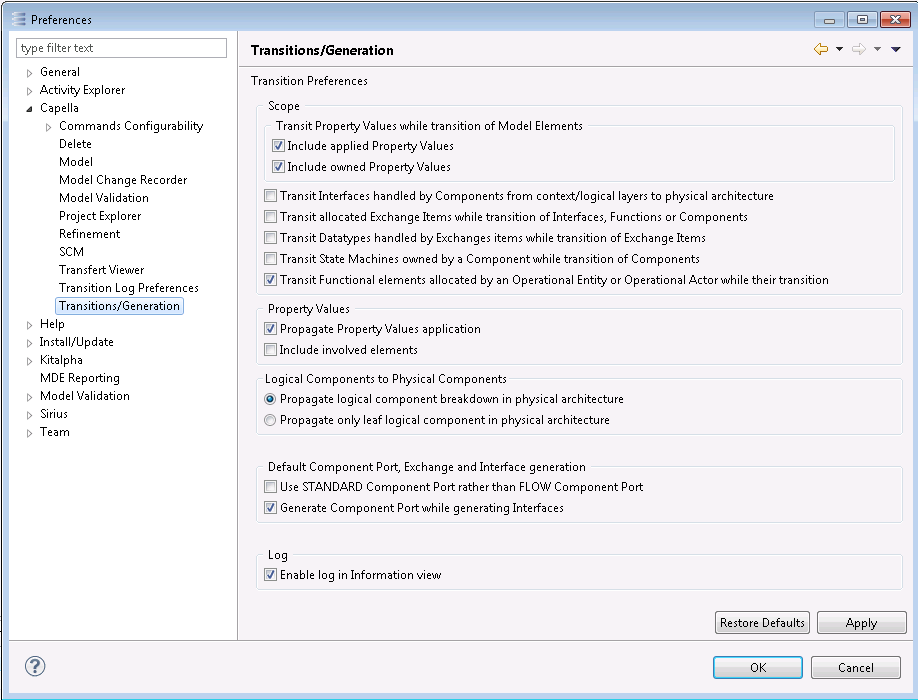
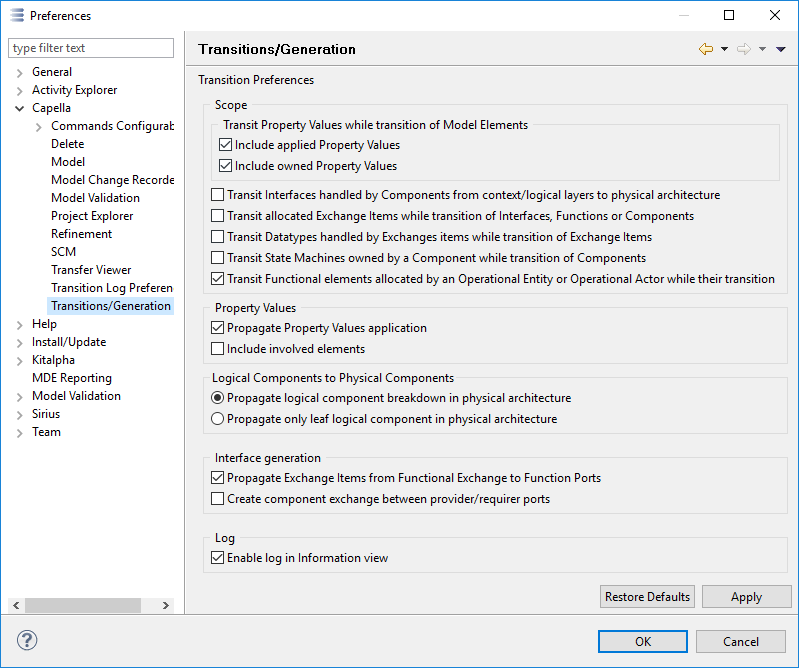
[1440] Update documentation for generate interfaces accelerator
Bug: 1440

Changed region(s): [[0.0, 0.0, 1.0, 1.0]]

diff --git a/doc/plugins/org.polarsys.capella.preferences.doc/html/06. Preferences/6.2. Model preferences.html b/doc/plugins/org.polarsys.capella.preferences.doc/html/06. Preferences/6.2. Model preferences.html
@@ -1,100 +1,193 @@
 <!--
- Copyright (c) 2006, 2015 THALES GLOBAL SERVICES.
+ Copyright (c) 2006, 2017 THALES GLOBAL SERVICES.
  All rights reserved. This program and the accompanying materials
  are made available under the terms of the Eclipse Public License v1.0
  which accompanies this distribution, and is available at
  http://www.eclipse.org/legal/epl-v10.html
  
  Contributors:
- 	Thales - initial API and implementation
+   Thales - initial API and implementation
 -->
-<!--?xml version='1.0' encoding='utf-8' ?--><!DOCTYPE html PUBLIC "-//W3C//DTD XHTML 1.0 Transitional//EN" "http://www.w3.org/TR/xhtml1/DTD/xhtml1-transitional.dtd">
+<!DOCTYPE html PUBLIC "-//W3C//DTD XHTML 1.0 Transitional//EN" "http://www.w3.org/TR/xhtml1/DTD/xhtml1-transitional.dtd">
 <html xmlns="http://www.w3.org/1999/xhtml">
- <head> 
-  <meta http-equiv="Content-Type" content="text/html; charset=utf-8" /> 
-  <link rel="stylesheet" type="text/css" href="PLUGINS_ROOT/org.polarsys.capella.doc/html/styles.css" media="all" />
- </head> 
- <body> 
-  <h1 id="Model_Preferences">Model Preferences</h1> 
-  <p>Preferences are available from the Window / Preferences menu. A section is dedicated to Capella.</p> 
-  <p> <img height="361" width="334" border="0" src="Images/6.2.%20Model%20preferences_html_1f594e63.png" /> </p> 
-  <p> <img height="522" width="627" border="0" src="Images/6.2.%20Model%20preferences_html_mcdd659.png" /> </p> 
-  <p> <br /> <br /> </p> 
-  <h2 id="General">General</h2> 
-  <p> <img height="192" width="627" border="0" src="Images/6.2.%20Model%20preferences_html_3594092.png" /> </p> 
-  <p>The “Check model version at load time” provides a security when opening a model. It checks whether the model has been produced with the current version and thus <b>whether it needs to be migrated or not</b>. <b>The drawback of activating this check is that the opening of models takes twice as long</b>. </p> 
-  <p>The AIRD Fragment File Extension option allows specifying the expected file suffix for AIRD fragments.</p> 
-  <table border="1"> 
-   <tbody>
-    <tr> 
-     <td> <p> <img height="48" width="48" border="0" src="Images/6.2.%20Model%20preferences_html_3c78e109.png" /> </p> </td> 
-     <td> <p>It is strongly recommended to use “airdfragment”.</p> </td> 
-    </tr> 
-   </tbody>
-  </table> 
-  <h2 id="Delete">Delete</h2> 
-  <p>On the sub section of Capella / Delete preferences, it is possible to specify deletion options:</p> 
-  <ul> 
-   <li>If “ <b>Confirm deletions</b>” is activated, then a confirmation dialog will be prompted for each deletion attempt. This dialog show a live impact analysis of the deletion. </li> 
-   <li>If “ <b>If reusing components is allowed, synchronize …</b>” is activated, then when deleting a Component, all the Parts that are typed by this component will be deleted as well. </li> 
-  </ul> 
-  <p> <b>Protected Elements</b>: It is possible to prohibit the deletion of certain critical elements. In that case, the deletion command will not be active for these elements. </p> 
-  <p> <img height="513" width="699" border="0" src="Images/6.2.%20Model%20preferences_html_497e9b20.png" /> </p> 
-  <p>The following figure illustrates the prompted dialog when deleting the System Actor “Mission Control Operator”. All the elements in red will be deleted if the deletion is confirmed. The blue elements are the references towards the elements that are going to be deleted.</p> 
-  <p> <img height="595" width="877" border="0" src="Images/6.2.%20Model%20preferences_html_597b3feb.png" /> </p> 
-  <h2 id="Model">Model</h2> 
-  <p>On the sub section Model of Capella preferences, it is possible to specify global behavior regarding the management of specific elements.</p> 
-  <p> <img height="474" width="859" border="0" src="Images/6.2.%20Model%20preferences_html_m2492a832.png" /> </p> 
-  <p>When “ <b>Multiple inheritance allowed</b>” is activated, a Class can inherit from several other Classes. Otherwise, it can only have one inheritance ancestor. </p> 
-  <p>When “ <b>Multiple deployment allowed</b>” is activated, one given Behaviour Physical Component can be deployed on several Node Physical Components. </p> 
-  <p>When “ <b>Delete related associations when a class becomes primitive</b>” is activated, existing associations towards the class which primitive status has changed is deleted automatically. If this option is not activated, then model validation is such cases will raise an error and the end user will be able to manually delete the obsolete association. </p> 
-  <p> <b>The three synchronization options define whether Port allocations and delegations are automatically set</b> when performing allocations from editors. Activating this option helps improving the productivity. </p> 
-  <p> <br /> <br /> </p> 
-  <h2 id="Overview">Overview</h2> 
-  <p> <img height="126" width="466" border="0" src="Images/6.2.%20Model%20preferences_html_m4d003fe.png" /> </p> 
-  <p>Both options allow choosing whether activities related to Functional Analysis and Interface Engineering should be displayed or not (See MDE in Thales / Modeling Approaches / Modeling Strategies).</p> 
-  <p>The sub sections of the Overview Preferences allow specifying individually which sections have to be displayed for each engineering phase.</p> 
-  <p> <img height="450" width="748" border="0" src="Images/6.2.%20Model%20preferences_html_2ceba136.png" /> </p> 
-  <h2 id="Project_Explorer">Project Explorer</h2> 
-  <p> <img height="152" width="365" border="0" src="Images/6.2.%20Model%20preferences_html_m2b0efbf5.png" /> </p> 
-  <p>When the “ <b>Project</b>” option is activated, the semantic element “Project” is displayed (see illustration below). By default, this option is not active. Displaying the “Project” model element is useful </p> 
-  <ul> 
-   <li>If there is a need to manage several system models in the same melodymodeller resource (not really common),</li> 
-   <li>In order to modify configuration property values located on the Project element (reusable components or not, default values for progress monitoring, etc.)</li> 
-  </ul> 
-  <p>By default, this option should be deactivated.</p> 
-  <p> <img height="270" width="360" border="0" src="Images/6.2.%20Model%20preferences_html_mc875712.png" /> </p> 
-  <h2 id="Refinement">Refinement</h2> 
-  <p>This section is dedicated to delegation-based refinement of interface sequence diagrams. <b>It is not relevant when exploiting Functional Analysis.</b> </p> 
-  <p> <img height="215" width="640" border="0" src="Images/6.2.%20Model%20preferences_html_3df4739.png" /> </p> 
-  <p>The checkbox “ <b>Allow diagram creation</b>” specifies whether a diagram shall be automatically created for the target scenario of the refinement. </p> 
-  <p>The checkbox “ <b>Allow diagram opening</b>” specifies whether the diagram corresponding to the target scenario of the refinement shall be automatically opened or not. </p> 
-  <p>The checkbox “ <b>Perform a pre-validation</b>” specifies whether the refinement tool shall perform a set of elementary check verifying the source scenario are ready for refinement. It is strongly recommended to activate this option as well as the following one “ <b>Stop Refinement on pre-validation error</b>”. </p> 
-  <h2 id="SCM">SCM</h2> 
-  <p> <img height="136" width="360" border="0" src="Images/6.2.%20Model%20preferences_html_3d6d7194.png" /> </p> 
-  <p>This section is related to the behaviour of Capella regarding the Software Configuration Management tool (e.g. Clearcase). The configuration option allows setting an automatic synchronization delay with the File System.</p> 
-  <table border="1"> 
-   <tbody>
-    <tr> 
-     <td> <p> <img height="48" width="48" border="0" src="Images/6.2.%20Model%20preferences_html_3c78e109.png" /> </p> </td> 
-     <td> <p>Activating this configuration option is mandatory when working with Clearcase Dynamic Views, in order to be notified immediately of changes performed by other users.</p> </td> 
-    </tr> 
-   </tbody>
-  </table> 
-  <h2 id="Transitions.2FGeneration">Transitions/Generation</h2> 
-  <p>It is possible to specify the behaviour of the automated transitions.</p> 
-  <p> <img height="478" width="753" border="0" src="Images/6.2.%20Model%20preferences_html_m73c38954.png" /> </p> 
-  <ul> 
-   <li>The checkbox “ <b>Use STANDARD Component Port rather than FLOW Component Port</b>” specifies whether generation of component exchanges and interfaces generate STANDARD Component Port rather than FLOW Component Port. </li> 
-   <li>The checkbox “ <b>Generate Component Port while generating Interfaces</b>” specifies whether generation of interfaces from allocated functions generates providing/requiring Component Port rather than implementation/usage links. </li> 
-   <li>The radio buttons “ <b>Propagate logical component breakdown in physical architecture</b>” and “ <b>Propagate only leaf logical components in physical architecture</b>” specifies whether the breakdown of Logical Components is kept at physical level or not. </li> 
-   <li>The checkbox “ <b>Transit interfaces handled by Components from context/logical layers to physical architecture</b>” specifies whether interfaces are duplicated from Logical architecture to Physical architecture when performing a Logical Component to Physical Component transition. If not activated, Physical Components will directly implement / use / provide / require interface located in the system analysis and logical architecture. </li> 
-   <li>The checkbox “ <b>Transit allocated Exchange Items while transition of Interfaces, Functions or Components</b>” specifies whether Interfaces, Functions or Components transition triggers transition of related Exchange Items (i.e. duplicates Exchange Items from one engineering phase to the following one). If not activated, Interface, Functions and Component Exchanges in the target engineering phase will still refer the Exchange Items located in the previous engineering phase. </li> 
-   <li>The checkbox “ <b>Transit Data Types handled by Exchange Items while transition of Exchange Items</b>” specifies whether Exchange Items transition triggers transition of related Data (i.e. duplicates Data from one engineering phase to the following one). If not activated, Exchange Items in the target engineering phase will still refer the Data elements located in the previous engineering phase. </li> 
-   <li>The checkbox “ <b>Transit State Machines owned by a Component while transition of Components</b>” specifies whether State Machines transition is triggered when performing a Component transition. </li> 
-   <li>The checkbox “ <b>Transit Functional elements allocated by an Operational Entity or Operational Actor while their transition</b>” specifies whether Operational Activities are transformed into System Functions when performing a transition of Operational Entities or Actors. </li> 
-   <li>The checkbox <b>“Include involved elements”</b> on the Property Values section specifies whether involved elements will be propagated while a transition of Property Values </li> 
-  </ul> 
-  <p> <br /> <br /> </p>   
- </body>
+  <head>
+    <meta http-equiv="Content-Type" content="text/html; charset=utf-8"/>
+    <link rel="stylesheet" type="text/css" href="PLUGINS_ROOT/org.polarsys.capella.doc/html/styles.css" media="all" />
+  </head>
+  <body>
+    <h1 id="Model_Preferences">Model Preferences</h1>
+    <p>Preferences are available from the Window / Preferences menu. A section is dedicated to Capella.</p>
+    <p>
+      <img height="361" width="334" border="0" src="Images/6.2.%20Model%20preferences_html_1f594e63.png"/>
+    </p>
+    <p>
+      <img height="522" width="627" border="0" src="Images/6.2.%20Model%20preferences_html_mcdd659.png"/>
+    </p>
+    <p>
+      <br/>
+
+      <br/>
+    </p>
+    <h2 id="General">General</h2>
+    <p>
+      <img height="192" width="627" border="0" src="Images/6.2.%20Model%20preferences_html_3594092.png"/>
+    </p>
+    <p>The &ldquo;Check model version at load time&rdquo; provides a security when opening a model. It checks whether the model has been produced with the current version and thus 
+      <b>whether it needs to be migrated or not</b>. 
+      <b>The drawback of activating this check is that the opening of models takes twice as long</b>.
+    </p>
+    <p>The AIRD Fragment File Extension option allows specifying the expected file suffix for AIRD fragments.</p>
+    <table border="1">
+      <tr>
+        <td>
+          <p>
+            <img height="48" width="48" border="0" src="Images/6.2.%20Model%20preferences_html_3c78e109.png"/>
+          </p>
+        </td>
+        <td>
+          <p>It is strongly         recommended to use &ldquo;airdfragment&rdquo;.</p>
+        </td>
+      </tr>
+    </table>
+    <h2 id="Delete">Delete</h2>
+    <p>On the sub section of Capella / Delete preferences, it is possible to specify deletion options:</p>
+    <ul>
+      <li>If &ldquo;
+        <b>Confirm deletions</b>&rdquo; is activated, then a   confirmation dialog will be prompted for each deletion attempt. This   dialog show a live impact analysis of the deletion.
+      </li>
+      <li>If &ldquo;
+        <b>If reusing components is allowed, synchronize &hellip;</b>&rdquo;   is activated, then when deleting a Component, all the Parts that are   typed by this component will be deleted as well.
+      </li>
+    </ul>
+    <p>
+      <b>Protected Elements</b>: It is possible to prohibit the deletion of certain critical elements. In that case, the deletion command will not be active for these elements.
+    </p>
+    <p>
+      <img height="513" width="699" border="0" src="Images/6.2.%20Model%20preferences_html_497e9b20.png"/>
+    </p>
+    <p>The following figure illustrates the prompted dialog when deleting the System Actor &ldquo;Mission Control Operator&rdquo;. All the elements in red will be deleted if the deletion is confirmed. The blue elements are the references towards the elements that are going to be deleted.</p>
+    <p>
+      <img height="595" width="877" border="0" src="Images/6.2.%20Model%20preferences_html_597b3feb.png"/>
+    </p>
+    <h2 id="Model">Model</h2>
+    <p>On the sub section Model of Capella preferences, it is possible to specify global behavior regarding the management of specific elements.</p>
+    <p>
+      <img height="474" width="859" border="0" src="Images/6.2.%20Model%20preferences_html_m2492a832.png"/>
+    </p>
+    <p>When &ldquo;
+      <b>Multiple inheritance allowed</b>&rdquo; is activated, a Class can inherit from several other Classes. Otherwise, it can only have one inheritance ancestor.
+    </p>
+    <p>When &ldquo;
+      <b>Multiple deployment allowed</b>&rdquo; is activated, one given Behaviour Physical Component can be deployed on several Node Physical Components.
+    </p>
+    <p>When &ldquo;
+      <b>Delete related associations when a class becomes primitive</b>&rdquo; is activated, existing associations towards the class which primitive status has changed is deleted automatically. If this option is not activated, then model validation is such cases will raise an error and the end user will be able to manually delete the obsolete association.
+    </p>
+    <p>
+      <b>The three synchronization options define whether Port allocations and delegations are automatically set</b> when performing allocations from editors. Activating this option helps improving the productivity.
+    </p>
+    <p>
+      <br/>
+
+      <br/>
+    </p>
+    <h2 id="Overview">Overview</h2>
+    <p>
+      <img height="126" width="466" border="0" src="Images/6.2.%20Model%20preferences_html_m4d003fe.png"/>
+    </p>
+    <p>Both options allow choosing whether activities related to Functional Analysis and Interface Engineering should be displayed or not (See MDE in Thales / Modeling Approaches / Modeling Strategies).</p>
+    <p>The sub sections of the Overview Preferences allow specifying individually which sections have to be displayed for each engineering phase.</p>
+    <p>
+      <img height="450" width="748" border="0" src="Images/6.2.%20Model%20preferences_html_2ceba136.png"/>
+    </p>
+    <h2 id="Project_Explorer">Project Explorer</h2>
+    <p>
+      <img height="152" width="365" border="0" src="Images/6.2.%20Model%20preferences_html_m2b0efbf5.png"/>
+    </p>
+    <p>When the &ldquo;
+      <b>Project</b>&rdquo; option is activated, the semantic element &ldquo;Project&rdquo; is displayed (see illustration below). By default, this option is not active. Displaying the &ldquo;Project&rdquo; model element is useful
+    </p>
+    <ul>
+      <li>If there is a need to manage several system models in the same   melodymodeller resource (not really common),</li>
+      <li>In order to modify configuration property values located on the   Project element (reusable components or not, default values for   progress monitoring, etc.)</li>
+    </ul>
+    <p>By default, this option should be deactivated.</p>
+    <p>
+      <img height="270" width="360" border="0" src="Images/6.2.%20Model%20preferences_html_mc875712.png"/>
+    </p>
+    <h2 id="Refinement">Refinement</h2>
+    <p>This section is dedicated to delegation-based refinement of interface sequence diagrams. 
+      <b>It is not relevant when exploiting Functional Analysis.</b>
+    </p>
+    <p>
+      <img height="215" width="640" border="0" src="Images/6.2.%20Model%20preferences_html_3df4739.png"/>
+    </p>
+    <p>The checkbox &ldquo;
+      <b>Allow diagram creation</b>&rdquo; specifies whether a diagram shall be automatically created for the target scenario of the refinement.
+    </p>
+    <p>The checkbox &ldquo;
+      <b>Allow diagram opening</b>&rdquo; specifies whether the diagram corresponding to the target scenario of the refinement shall be automatically opened or not.
+    </p>
+    <p>The checkbox &ldquo;
+      <b>Perform a pre-validation</b>&rdquo; specifies whether the refinement tool shall perform a set of elementary check verifying the source scenario are ready for refinement. It is strongly recommended to activate this option as well as the following one &ldquo;
+      <b>Stop Refinement on pre-validation error</b>&rdquo;.
+    </p>
+    <h2 id="SCM">SCM</h2>
+    <p>
+      <img height="136" width="360" border="0" src="Images/6.2.%20Model%20preferences_html_3d6d7194.png"/>
+    </p>
+    <p>This section is related to the behaviour of Capella regarding the Software Configuration Management tool (e.g. Clearcase). The configuration option allows setting an automatic synchronization delay with the File System.</p>
+    <table border="1">
+      <tr>
+        <td>
+          <p>
+            <img height="48" width="48" border="0" src="Images/6.2.%20Model%20preferences_html_3c78e109.png"/>
+          </p>
+        </td>
+        <td>
+          <p>Activating this         configuration option is mandatory when working with Clearcase         Dynamic Views, in order to be notified immediately of changes         performed by other users.</p>
+        </td>
+      </tr>
+    </table>
+    <h2 id="Transitions.2FGeneration">Transitions/Generation</h2>
+    <p>It is possible to specify the behaviour of the automated transitions.</p>
+    <p>
+      <img height="668" width="799" border="0" src="Images/6.2.%20Model%20preferences_html_m73c38954.png"/>
+    </p>
+    <ul>
+      <li>The radio buttons &ldquo;
+        <b>Propagate logical component breakdown in   physical architecture</b>&rdquo; and &ldquo;
+        <b>Propagate only leaf   logical components in physical architecture</b>&rdquo; specifies   whether the breakdown of Logical Components is kept at physical   level or not.
+      </li>
+      <li>The checkbox &ldquo;
+        <b>Transit interfaces handled by Components from   context/logical layers to physical architecture</b>&rdquo; specifies   whether interfaces are duplicated from Logical architecture to   Physical architecture when performing a Logical Component to   Physical Component transition. If not activated, Physical Components   will directly implement / use / provide / require interface located   in the system analysis and logical architecture.
+      </li>
+      <li>The checkbox &ldquo;
+        <b>Transit allocated Exchange Items while   transition of Interfaces, Functions or Components</b>&rdquo;   specifies whether Interfaces, Functions or Components transition   triggers transition of related Exchange Items (i.e. duplicates   Exchange Items from one engineering phase to the following one). If   not activated, Interface, Functions and Component Exchanges in the   target engineering phase will still refer the Exchange Items located   in the previous engineering phase.
+      </li>
+      <li>The checkbox &ldquo;
+        <b>Transit Data Types handled by Exchange Items   while transition of Exchange Items</b>&rdquo; specifies whether   Exchange Items transition triggers transition of related Data (i.e.   duplicates Data from one engineering phase to the following one). If   not activated, Exchange Items in the target engineering phase will   still refer the Data elements located in the previous engineering   phase.
+      </li>
+      <li>The checkbox &ldquo;
+        <b>Transit State Machines owned by a Component   while transition of Components</b>&rdquo; specifies whether State   Machines transition is triggered when performing a Component   transition.
+      </li>
+      <li>The checkbox &ldquo;
+        <b>Transit Functional elements allocated by an   Operational Entity or Operational Actor while their transition</b>&rdquo;   specifies whether Operational Activities are transformed into System   Functions when performing a transition of Operational Entities or   Actors.
+      </li>
+      <li>The checkbox 
+        <b>&ldquo;Include involved elements&rdquo;</b> on the   Property Values section specifies whether involved elements will be   propagated while a transition of Property Values
+      </li>
+      <li>The checkbox 
+        <b>&ldquo;Propagate Exchange Items from Functional Exchanges to Function Ports&rdquo;</b> specifies specifies whether Exchange Items from Functional Exchanges should be propagated to their related Function Ports during Interface generation.
+      </li>
+      <li>The checkbox 
+        <b>&ldquo;Create Component Exchange Between provider/requirer ports&rdquo;</b> specifies specifies if the Interface generation accelerator should create a Component Exchange between each pair of Interface provider/requirer ports if such an exchange does not already exist.
+      </li>
+    </ul>
+    <p>
+      <br/>
+
+      <br/>
+    </p>
+  </body>
 </html>

diff --git a/doc/plugins/org.polarsys.capella.ui.doc/html/07. Modelling Wizards and Accelerators/7.1. Modeling accelerators.html b/doc/plugins/org.polarsys.capella.ui.doc/html/07. Modelling Wizards and Accelerators/7.1. Modeling accelerators.html
@@ -245,10 +245,19 @@
 		<p>
 			<img height="282" width="554" border="0" src="Images/7.1.%20Modeling%20accelerators_html_m652c731a.png"/>
 		</p>
+		<h3 id="Illustration_22">Illustration 2</h3>
+		<p>This example demonstrates interface generation in the following cases:</p>
+		<ul>
+			<li>A functional exchange which is allocated to a component exchange.</li>
+			<li>A functional exchange with function ports that are allocated to component ports. The functional exchange itself is not allocated to the component exchange.</li>
+			<li>A functional exchange without a corresponding component exchange.</li>
+		</ul>
 		<p>
-			<br/>
-
-			<br/>
+			<img height="484" width="522" border="0" src="Images/interface_from_allocated_functions_before.png"/>
+		</p>
+		<p>Three interfaces will be generated:</p>
+		<p>
+			<img height="171" width="684" border="0" src="Images/interface_from_allocated_functions_after.png"/>
 		</p>
 	</body>
 </html>
